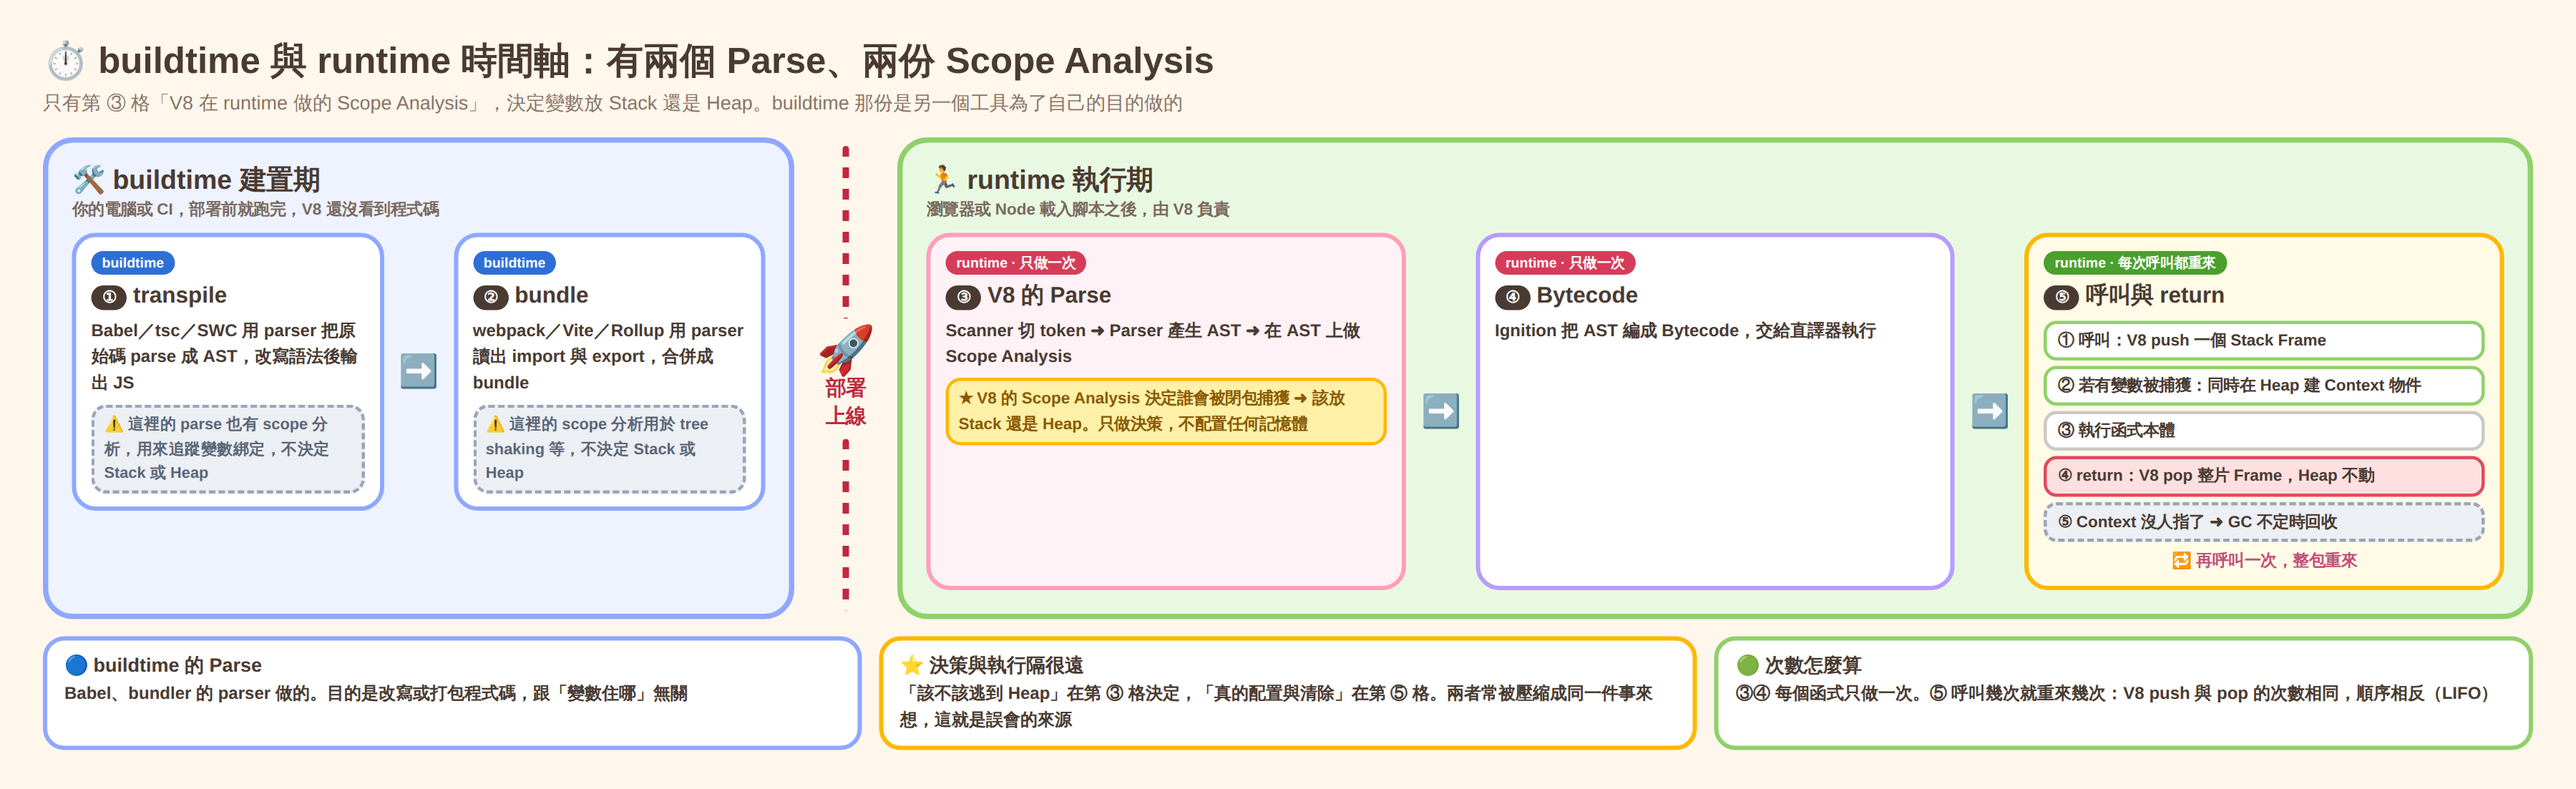
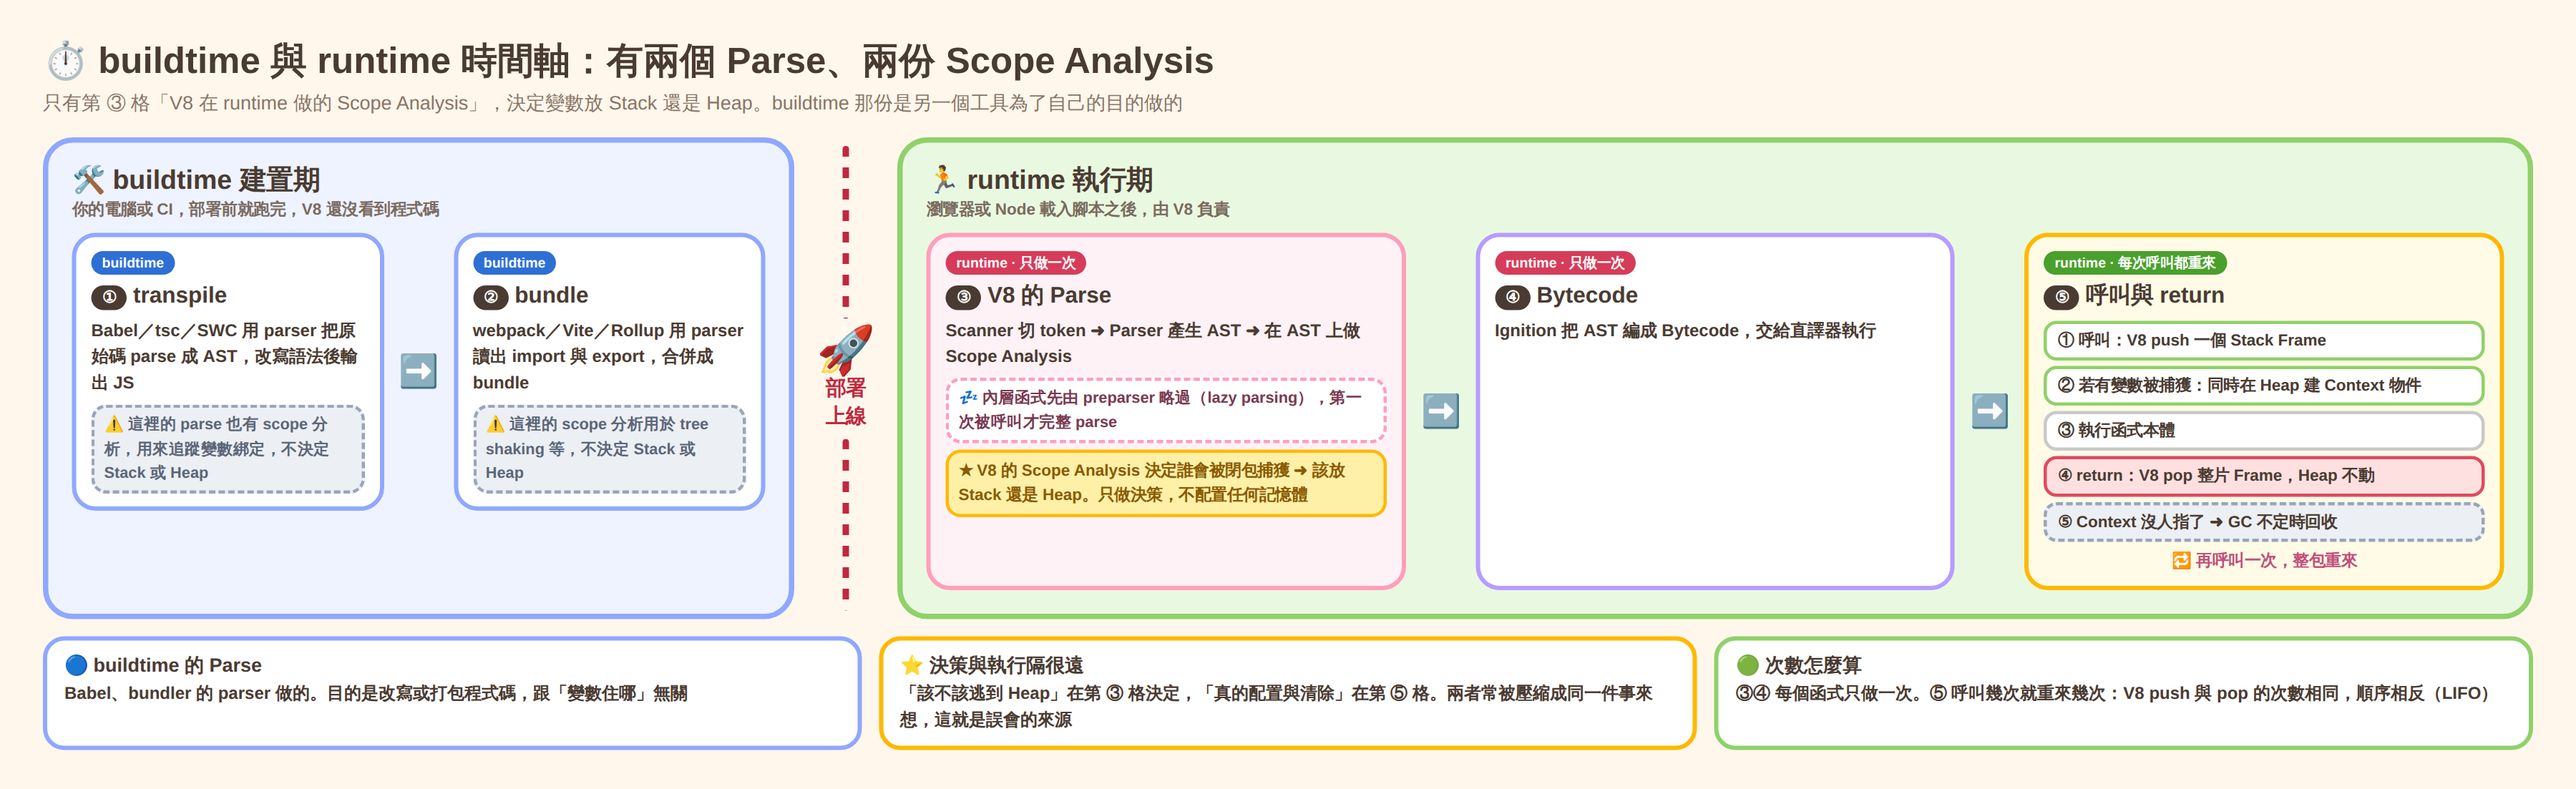
docs: V8 管線筆記補 Preparser 與 Lazy Parsing 官方原文逐句對照與來源；12-return 重寫「一句話」並說明「例外」不是 Exception；時間軸圖加 preparser
Claude-Session: https://claude.ai/code/session_01PD3MQfAvZiER3ctSXocKXC

Changed region(s): [[0.3422, 0.4624, 0.56, 0.6782]]

diff --git a/frontend-docs/javascript/JS_Core_and_Runtime/12-return-時間軸-buildtime與runtime兩個Parse-可愛圖.html b/frontend-docs/javascript/JS_Core_and_Runtime/12-return-時間軸-buildtime與runtime兩個Parse-可愛圖.html
@@ -75,6 +75,7 @@ h1{margin:0 0 4px;font-size:34px}
           <span class="tag tr">runtime · 只做一次</span>
           <h3><span class="no">③</span>V8 的 Parse</h3>
           Scanner 切 token ➜ Parser 產生 AST ➜ 在 AST 上做 Scope Analysis
+          <div class="no-star" style="margin-top:6px;background:#fff;border-color:#ff9ebb;color:#7a3a52">💤 內層函式先由 <b>preparser</b> 略過（lazy parsing），第一次被呼叫才完整 parse</div>
           <div class="star">★ V8 的 Scope Analysis 決定誰會被閉包捕獲 ➜ 該放 Stack 還是 Heap。只做決策，不配置任何記憶體</div>
         </div>
         <div class="arr">➡</div>

diff --git a/編譯與打包-學習路徑/04-V8引擎完整管線-Parse到Deoptimization-【編譯runtime】.md b/編譯與打包-學習路徑/04-V8引擎完整管線-Parse到Deoptimization-【編譯runtime】.md
@@ -83,7 +83,7 @@ flowchart TD
 
       | | Scope Analysis 的初步判定（這裡） | TurboFan 的 Escape Analysis（下方 TurboFan 階段） |
       |---|---|---|
-      | 發生時機 | Parse 階段，**每個函式都會做一次** | 只有被判定為 Hot Code、送進 TurboFan 之後才會做 |
+      | 發生時機 | Parse 階段，**每個函式都會做一次**（含被 preparser 略過的函式，見下方 Preparser 那一點） | 只有被判定為 Hot Code、送進 TurboFan 之後才會做 |
       | 判斷依據 | **靜態語法結構**：AST 上有沒有內層函式引用這個變數 | **實際執行 Profile**：這個物件在真正跑過的案例裡，有沒有被回傳、存到外部變數、被閉包捕獲 |
       | 保守程度 | 保守——只要「可能」被捕獲就先放 Heap，確保正確性優先 | 激進——只要「證明」完全不會逃逸，可以直接連 Heap 都不配置 |
       | 對物件的處理 | 二選一：整包放 Stack 或整包放 Heap Context | 可以更細：把物件拆成好幾個獨立的純量值（scalar），例如物件的每個欄位各自變成一個暫存器變數，完全跳過「配置一整個物件」這件事 |
@@ -95,6 +95,27 @@ flowchart TD
   - **判斷要不要建立 `arguments` 物件**：如果函式本體根本沒引用 `arguments`，V8 可以直接省略建立它，省一筆開銷（哪種參數列表會影響 `arguments` 是「mapped」還是「unmapped」，見 [[函式呼叫核心機制-Execution-Context-與-Parameter-Binding]] 的簡單參數列表說明）。
   - **strict mode 判定**：從 `"use strict"` 指令或 ES Module 環境推定這段程式碼是不是 strict mode，會影響後面一系列語法限制。
   - **Early Error 靜態語法檢查**：例如同一個參數列表裡重複的參數名稱、同一 scope 裡重複的 `let`/`const` 宣告，這類「編譯期就能確定是錯的」語法錯誤，也是在這個階段被抓出來（完整的重複參數名稱規則見 [[函式呼叫核心機制-Execution-Context-與-Parameter-Binding]] 的 (e)）。
+
+- **Preparser 與 Lazy Parsing（惰性 parse）**：V8 的 parser 遇到函式時，不一定立刻把它完整 parse 成 AST。它會切換成 preparser（parser 的精簡版，只做「剛好足以略過這個函式」的最少工作），先確認函式本體語法合法，並記下外層函式編譯所需的資訊。等這個函式第一次被呼叫，V8 才完整 parse 它並交給 Ignition 編成 Bytecode。
+
+  官方部落格 [Blazingly fast parsing, part 2: lazy parsing](https://v8.dev/blog/preparser)（2019-04-15）第一段的逐句對照：
+
+  | 官方原文 | 白話解釋 |
+  |---|---|
+  | Parsing is the step where source code is turned into an intermediate representation to be consumed by a compiler (in V8, the bytecode compiler Ignition). | 這是 runtime 在 V8 裡做的事，不是 buildtime。這裡的 compiler 指 Ignition（把 AST 編成 Bytecode 的 bytecode compiler）。它不是 transpiler（transpile 是 buildtime 的原始碼轉原始碼），也不是 TurboFan（TurboFan 是之後把熱點函式編成機器碼的 optimizing compiler）。注意這句出現在 part 2，part 1 講的是 scanner 的優化 |
+  | Parsing and compiling happens on the critical path of web page startup | critical path 指頁面啟動時「必須依序完成、後面才能繼續」的那條工作路徑。parse 與 compile 都在 main thread 的啟動流程上，花多久，頁面就晚多久能互動 |
+  | and not all functions shipped to the browser are immediately needed during startup. | 一支 bundle 裡有很多函式，但啟動當下只會用到其中一小部分 |
+  | Even though developers can delay such code with async and deferred scripts, that's not always feasible. | 原文沒有說明理由，以下是我的推論。a. 啟動就要用的程式碼本來就不能延後。b. `async`、`defer` 只改變 script 何時下載與執行，檔案一旦執行，裡面沒被呼叫的函式至少還是會被 preparse 一次。c. 把不需要的功能拆出去要靠 code splitting 與 dynamic import 重構，成本高，第三方 script 更不是你能拆的。d. 有執行順序依賴的 script 不能隨便用 `async` |
+  | Additionally, many web pages ship code that's only used by certain features which may not be accessed by a user at all during any individual run of the page. | 例如結帳頁、後台管理功能的程式碼，使用者這一次載入頁面可能根本不會點到 |
+  | Eagerly compiling code unnecessarily has real resource costs: | eagerly 是「迫切」，意思是不管用不用得到都先編譯。下面三條是它的代價 |
+  | CPU cycles are used to create the code, delaying the availability of code that's actually needed for startup. | main thread 一次只能做一件事，每花一段 CPU 時間去編譯啟動時用不到的函式，真正要用的函式就晚一點才輪到。availability 是「可用性」，指程式碼何時能被執行，不是「可達性」（reachability，那是 GC 的概念）。that's actually needed for startup 是在修飾 code，意思是「啟動時真的需要的那些程式碼」 |
+  | Code objects take up memory, at least until bytecode flushing decides that the code isn't currently needed and allows it to be garbage-collected. | 編好的 Bytecode 會佔 V8 heap 的記憶體。bytecode flushing 的做法（[V8 v7.4 發佈說明](https://v8.dev/blog/v8-release-74)，2019-03-22）：V8 為每個函式的 bytecode 記錄「年齡」，每次 GC 年齡加一，函式被執行時歸零，超過門檻的 bytecode 在下一次 GC 被回收，函式變回尚未編譯，之後再被呼叫才重新 lazy compile。它看的是「最近有沒有被執行」，不是 scope chain 有沒有鍊住它（scope chain 與可達性是另一件事，決定物件能不能被 GC）。官方量測 bytecode 約占 V8 heap 的 15%，flushing 省下 5 到 15% |
+  | Code compiled by the time the top-level script finishes executing ends up being cached on disk, taking up disk space. | 這是 Chrome 的 code cache（[Code caching for JavaScript developers](https://v8.dev/blog/code-caching-for-devs)，2019-04-08）。同一支 script 第二次載入時，Chrome 把編好的結果序列化，附在 HTTP cache 的檔案旁。「頂層腳本執行完時已編譯的函式」都會進 cache，所以不必要的 eager compile 也會一起佔磁碟。這整段都是 runtime 的 V8 與 Chrome 在做的事，不是 buildtime |
+
+  跟 Critical Rendering Path（CRP，瀏覽器把 HTML 變成畫面的 DOM、CSSOM、render tree、layout、paint 這條路）的關係：官方這篇沒有談 render。兩者都是「啟動時的必經路」，而且會重疊，因為沒加 `async`、`defer` 的 script 會擋住 HTML 的 parse，它的下載、parse、compile、執行都得做完，後面的畫面才能繼續，所以會推遲首次繪製。這個連結是我的推論，不是官方原文。相關：[[FCP首次內容繪製-SEO爬蟲與打包五步驟]]。
+
+  preparser 還要追蹤變數，原因直接連到 [[return-清理記憶體-stack-frame與閉包例外]]：官方在同一篇的 Variable allocation 一節說，V8 要知道「每個變數有沒有被內層函式引用」，才能決定它放 Stack 或 Heap 的 context，所以 preparser 也必須追蹤變數的宣告與引用，而且在 preparse 期間就做完整的 scope resolution。V8 把「每個變數放哪裡」序列化成一個小陣列存起來，之後完整 parse 該函式時直接套用，內層函式就不必被重複 preparse。結果是每個函式最多被 preparse 一次、完整 parse 一次（bytecode 被 flushing 回收後又被呼叫時會重新 parse，是例外）。
+  官方還提到兩種特例。頂層程式碼的變數一律放 Heap，因為變數會跨 script 可見。`(function(){…})` 這種括號包起來的函式，V8 假設它會立刻被呼叫，直接完整 parse 並編譯，稱為 PIFE（possibly-invoked function expression）。
 
 ### Ignition（直譯器）階段
 
@@ -159,7 +180,7 @@ var smallestNumber = function (n, t) {
 
 快速結論（完整版見 [[函式呼叫核心機制-Execution-Context-與-Parameter-Binding]] 的 (f)(g)(h) 三節）：
 
-- **Parse（本篇最上面 Scanner→Parser→AST→Scope Analysis 那段）是編譯期**，對同一個函式只做一次（V8 甚至會 lazy parsing，delay 到第一次被呼叫前才補做），產出可重複使用的 Bytecode。
+- **Parse（本篇最上面 Scanner→Parser→AST→Scope Analysis 那段）是編譯期**，對同一個函式只做一次，產出可重複使用的 Bytecode。V8 還會做 lazy parsing：內層函式先由 preparser 略過，第一次被呼叫才完整 parse（細節見上方「Preparser 與 Lazy Parsing」）。
 - **Hoisting／參數綁定屬於 Execution Context 的 Creation Phase，是執行期**，函式被呼叫幾次就重做幾次——這跟 Parse 是兩個完全不同時間點的動作，只是 lazy compilation 讓兩者在時間上很靠近，容易被誤以為是同一件事。
 - 「編譯」跟「翻譯／直譯」的用詞差異：編譯＝把原始碼轉成另一種可重複執行的表示法（Parse＋Bytecode 產生，一次性）；翻譯／直譯＝真的執行已編譯好的表示法（Ignition 跑 Bytecode，每次呼叫都重來）。
 
@@ -478,6 +499,16 @@ flowchart LR
 - [[Node-js底層架構-V8-libuv-Bindings與CSR澄清]] —— libuv 到底是什麼、Node.js 完整分層架構、CSR 渲染邏輯在哪執行、純前端會不會用到 Node 專屬 API
 - [[陳述式-Statement-vs-表達式-Expression]] —— 上面 AST 逐字稿裡 `ExpressionStatement`、`VariableDeclaration` 這些節點名稱背後的分類邏輯
 - [[引擎-Engine-到底是什麼]] —— 「引擎」這個詞的正式定義，以及 Engine／Interpreter／Compiler／Runtime／Host Environment 的名詞辨析
+
+## 資料來源（含查證時間）
+
+| 主題 | 連結 | 版本／時間 |
+|---|---|---|
+| Preparser、lazy parsing、Variable allocation、PIFE | https://v8.dev/blog/preparser | 發表 2019-04-15，2026-10-06 查證（讀取 v8/v8.dev 倉庫原始檔） |
+| Scanner、AST 與 Ignition 的關係 | https://v8.dev/blog/scanner | 發表 2019-03-25，2026-10-06 查證 |
+| Bytecode flushing | https://v8.dev/blog/v8-release-74 | 發表 2019-03-22，2026-10-06 查證 |
+| Code cache 與磁碟快取 | https://v8.dev/blog/code-caching-for-devs | 發表 2019-04-08，2026-10-06 查證 |
+| 「async／defer 為何不一定可行」「CRP 與 critical path 的關係」 | 本篇推論，非官方原文 | 無 |
 
 ---
 
